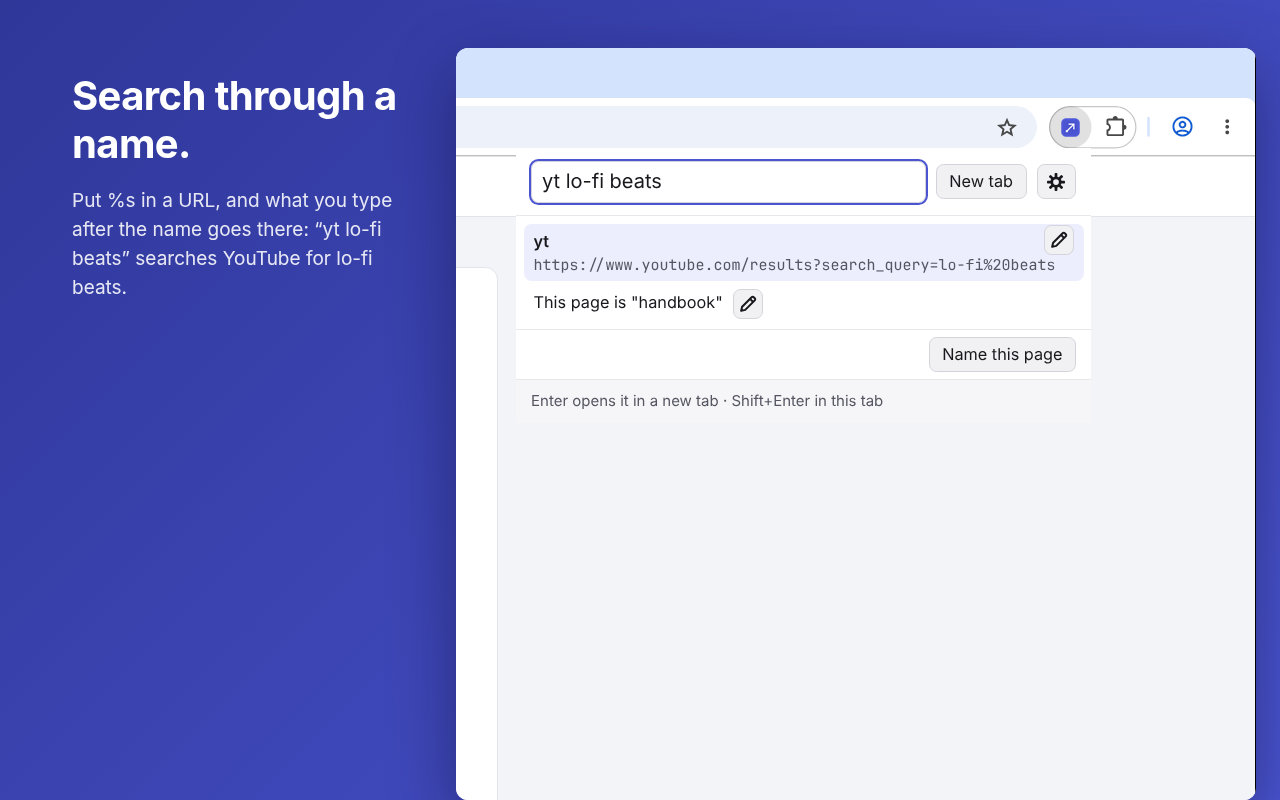
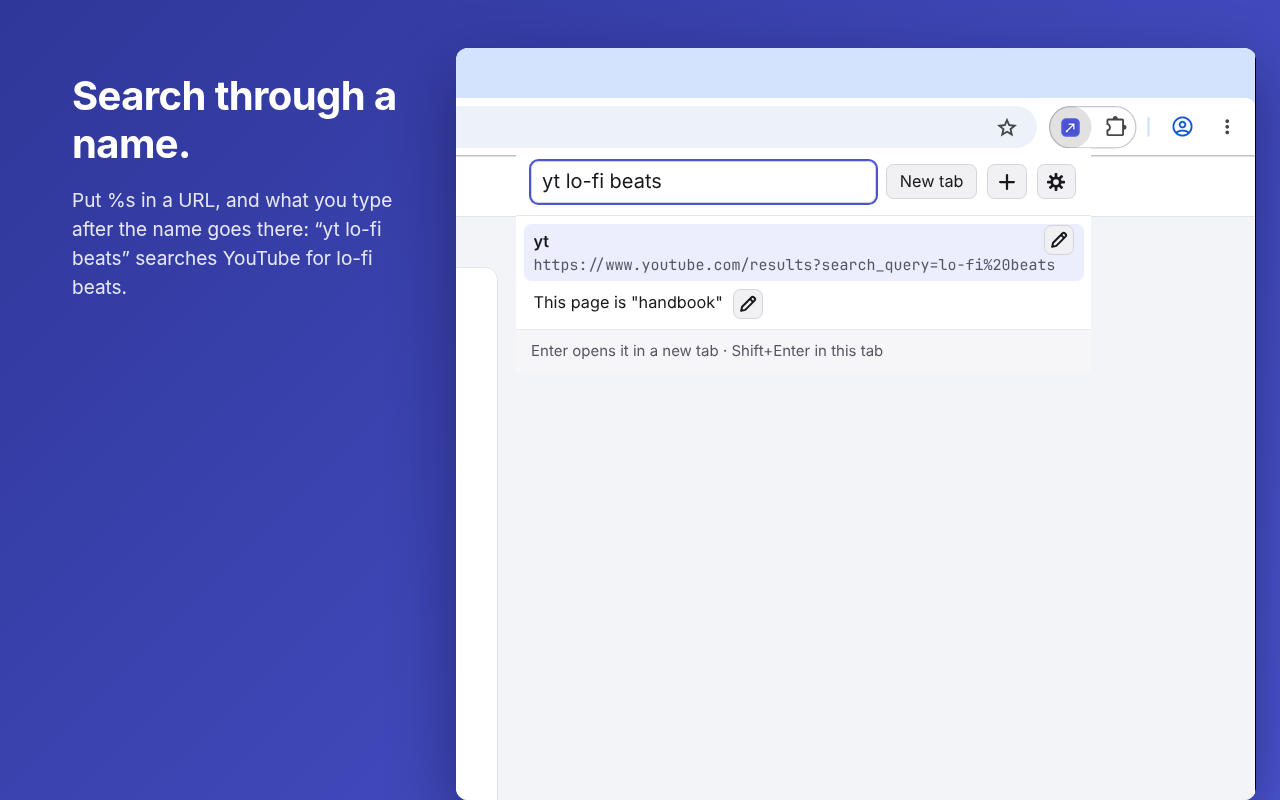
URLJumper 2.1.0
The version moves to 2.1.0 in the manifest, in both specifications' statements of it, and in
the end-to-end checks that pin the shipped version. The changelog's 2.1.0 entry lists every
change since 2.0.0. The store listing's images are redrawn from the built extension, and its
clipboard wording and the Name form's caption name the new copy buttons and Note field.

diff --git a/e2e/service-worker.spec.ts b/e2e/service-worker.spec.ts
@@ -2,11 +2,11 @@ import fs from 'node:fs';
 import path from 'node:path';
 import { distDir, expect, test } from './extension.ts';
 
-test("the built worker runs from the extension's origin as version 2.0.0", async ({ extension }) => {
+test("the built worker runs from the extension's origin as version 2.1.0", async ({ extension }) => {
   const manifest = JSON.parse(fs.readFileSync(path.join(distDir, 'manifest.json'), 'utf8'));
   expect(extension.worker.url()).toBe(extension.url(manifest.background.service_worker));
   const seen = await extension.worker.evaluate(() => [location.origin, chrome.runtime.id, chrome.runtime.getManifest().version]);
-  expect(seen).toEqual([`chrome-extension://${extension.id}`, extension.id, '2.0.0']);
+  expect(seen).toEqual([`chrome-extension://${extension.id}`, extension.id, '2.1.0']);
 });
 
 test("the worker has Chrome's command, menu, keyword, install, and startup events to listen to", async ({ extension }) => {

diff --git a/e2e/upgrade-from-1x.spec.ts b/e2e/upgrade-from-1x.spec.ts
@@ -74,7 +74,7 @@ test('a real update from 1.3.0 keeps the document byte for byte, the dark theme,
   await assignShortcut(release1x.context, release1x.id, 'open-new-tab', 'Alt+J');
 
   const extension = await release1x.update();
-  expect(await extension.worker.evaluate(() => chrome.management.getSelf())).toMatchObject({ name: 'URLJumper', version: '2.0.0', enabled: true });
+  expect(await extension.worker.evaluate(() => chrome.management.getSelf())).toMatchObject({ name: 'URLJumper', version: '2.1.0', enabled: true });
   // Nothing migrated: 1.3.0's keys as it left them, and the mark of the update.
   expect(await extension.readStorage()).toEqual({ ...before, upgradeNotice: 'pending' });
   expect((await assignedShortcuts(extension.worker))['open-new-tab']).toBe('Alt+J');

diff --git a/e2e/release-zip.spec.ts b/e2e/release-zip.spec.ts
@@ -73,7 +73,7 @@ test("the upload's manifest declares exactly URLJumper 2.0's keys and values", (
   );
   expect(manifest.manifest_version).toBe(3);
   expect(manifest.name).toBe('URLJumper');
-  expect(manifest.version).toBe('2.0.0');
+  expect(manifest.version).toBe('2.1.0');
   expect(manifest.minimum_chrome_version).toBe('127');
   expect([...manifest.permissions].sort()).toEqual(['activeTab', 'clipboardWrite', 'contextMenus', 'storage']);
   expect(manifest.permissions).toHaveLength(4);

diff --git a/manifest.config.ts b/manifest.config.ts
@@ -5,7 +5,7 @@ import { defineManifest } from '@crxjs/vite-plugin';
 export default defineManifest({
   manifest_version: 3,
   name: 'URLJumper',
-  version: '2.0.0',
+  version: '2.1.0',
   minimum_chrome_version: '127',
   description: 'Open web pages by names you keep in one text document. Type a name, press Enter, arrive.',
   // Drawn by scripts/icons.ts.

diff --git a/TECHNICAL_SPECIFICATION.md b/TECHNICAL_SPECIFICATION.md
@@ -43,7 +43,7 @@ Every write of `mappings` carries the recomputed `usage` in the same `set` call,
 
 **What's-new page** (`whats-new.html`): a static page in the package, opened in a tab from the notice (G25), with five items: an exact name now wins over an earlier line that starts with it; `%s` in a URL takes the text typed after the name; Name this page (its shortcut, suggested Alt+Shift+N; the right-click menu; the Name row); the keyword `j`; Smart order, off for upgraded users, in Preferences.
 
-**Chrome** (external). Provides the stored keys, the popup bubble, the keyword, menus, commands, tabs, clipboard, and downloads. The manifest declares: `name` "URLJumper", `version` "2.0.0", `minimum_chrome_version` "127"; `permissions` exactly `storage`, `activeTab`, `clipboardWrite`, `contextMenus` (the stray `commands` entry of 1.x, which Chrome ignores as unknown, is dropped); `commands` `open-new-tab` (Alt+N), `open-same-tab` (Alt+M), `name-this-page` (Alt+Shift+N), each with `default` and `mac` set to the same key, as 1.x did; `omnibox.keyword` "j"; the CSP above; no `incognito` key (spanning, the default, so one worker serves the profile). Menu items are created in `onInstalled`, and again in `runtime.onStartup` after removing the extension's items, so a Chrome closed before it stored them has them again at its next start: *Name this page in URLJumper* with context `page`, *Name this link in URLJumper* with context `link` (S13). Export is an anchor download of a Blob of the stored text (UTF-8, no byte-order mark added) named `URLJumperMappings.txt`; Import reads the chosen file with `File.text()` (S14). Copying uses `navigator.clipboard.writeText` from the focused page inside the user's click or key handler.
+**Chrome** (external). Provides the stored keys, the popup bubble, the keyword, menus, commands, tabs, clipboard, and downloads. The manifest declares: `name` "URLJumper", `version` "2.1.0", `minimum_chrome_version` "127"; `permissions` exactly `storage`, `activeTab`, `clipboardWrite`, `contextMenus` (the stray `commands` entry of 1.x, which Chrome ignores as unknown, is dropped); `commands` `open-new-tab` (Alt+N), `open-same-tab` (Alt+M), `name-this-page` (Alt+Shift+N), each with `default` and `mac` set to the same key, as 1.x did; `omnibox.keyword` "j"; the CSP above; no `incognito` key (spanning, the default, so one worker serves the profile). Menu items are created in `onInstalled`, and again in `runtime.onStartup` after removing the extension's items, so a Chrome closed before it stored them has them again at its next start: *Name this page in URLJumper* with context `page`, *Name this link in URLJumper* with context `link` (S13). Export is an anchor download of a Blob of the stored text (UTF-8, no byte-order mark added) named `URLJumperMappings.txt`; Import reads the chosen file with `File.text()` (S14). Copying uses `navigator.clipboard.writeText` from the focused page inside the user's click or key handler.
 
 ## State
 

diff --git a/CHANGELOG.md b/CHANGELOG.md
@@ -2,6 +2,25 @@
 
 Every release of URLJumper, newest first. The version is `version` in `manifest.config.ts`. From 2.0.0 on, each release is tagged `v<version>`; the 1.x releases are tagged `v<version>-release`, and their entries are drawn from those tags and the commit messages of the time.
 
+## 2.1.0 — 2026-10-22
+
+### Added
+
+- **Popup settings open on**: a choice in Preferences, below Theme, of the view the popup's settings open on: *Preferences*, *List*, or *Text*. It starts at Preferences and applies to the popup's settings only.
+- **Note** in the Name form, wherever it opens (Name this page, Name this link, the Name row, Add mapping): empty to start, saved as the new line's note.
+- A **copy button** at the right of the name, URL, and note fields of the Name form and of every row editor: it copies the field's value as it stands, typed or not, and stores and opens nothing.
+- **Copy tab URL** in more of the popup: in the row editor a search row opens, in the List view's row editor, and in the Add mapping form, copying the address of the tab the popup was opened on so it can be pasted over a URL.
+- **Import…** and **Export…** in the popup's settings as well as on the settings page.
+- Every icon button shows a short title on hover.
+
+### Changed
+
+- The popup's *Name this page* is a plus in the header, left of the gear, so it stays in one place however many rows are listed; the bar below the list is gone. In the popup's settings, *Open in tab* is an icon.
+- In the List view, *Add mapping* is a plus at the top right and opens its form at the top of the view; activated while the form is open, it returns to the form's name field. A row editor's *Move up* and *Move down* are arrows, on one line with *Cancel*.
+- *Import…* and *Export…* are icon buttons at the top right of the Text view, in both settings hosts, and are no longer in Preferences. Import opens the Text view afresh with the file as the unsaved text, asking first over unsaved text as before; while Chrome is not keeping the view's unsaved text, Import takes nothing and says so instead of replacing it.
+- A note typed in the Name form or a row editor may hold a backslash, as a note written in the Text view already could; a line break is still refused.
+- The List view's row editor no longer offers *Copy link*: the URL field's copy button copies what it showed. The row editor a search row opens keeps *Copy link*, which copies an argument row's filled URL.
+
 ## 2.0.0 — 2026-10-20
 
 Version 2.0 is a new implementation, built from `PRODUCT_SPECIFICATION.md` and `TECHNICAL_SPECIFICATION.md`; nothing of the 1.x code remains. An install of 1.x keeps its stored document byte for byte. From 1.1.0 on, 1.x stored the theme and named its commands as 2.0 does, so a user's theme and assigned shortcuts stay as well; 1.0.x used other names for both, and an update from one starts with the System theme and the suggested shortcuts.

diff --git a/web-store/listing.md b/web-store/listing.md
@@ -48,7 +48,7 @@ One mapping per line: a name, spaces, and a URL. A backslash starts a comment; a
 
 PRIVATE BY DESIGN
 
-Everything stays in your Chrome profile. URLJumper makes no network requests of its own and has no account, no sync, and no telemetry. It uses only these permissions: storage (your document and preferences), the active tab (the address and title of the page you are on, only when you open URLJumper on it), the clipboard (to copy a link), and the right-click menu.
+Everything stays in your Chrome profile. URLJumper makes no network requests of its own and has no account, no sync, and no telemetry. It uses only these permissions: storage (your document and preferences), the active tab (the address and title of the page you are on, only when you open URLJumper on it), the clipboard (to copy a link or a field's text), and the right-click menu.
 
 UPGRADING FROM 1.x
 
@@ -72,7 +72,7 @@ Developers: Brian Wei Hao Ma, Ryan B. Green
 Each is a real capture of the built extension in Chromium at a display scale of 1.25, set in a captioned frame.
 
 1. `screenshot-1-jump.png`: the popup over a page with `ma` typed, three matches, and the footer saying what Enter does.
-2. `screenshot-2-name-this-page.png`: the Name form for the page the popup was opened on, with its title, host, URL, the Section choice, and the preview of the line to be written.
+2. `screenshot-2-name-this-page.png`: the Name form for the page the popup was opened on, with its title, host, URL, an empty Note field, the Section choice, and the preview of the line to be written.
 3. `screenshot-3-search-through-a-name.png`: `yt lo-fi beats` typed, and the argument row showing the filled YouTube search URL.
 4. `screenshot-4-your-document.png`: the settings page's Text view, showing the document with comment headings, notes, and aligned columns.
 5. `screenshot-5-list-view-dark.png`: the settings page's List view in the dark theme, rows under their heading with line numbers and a note.
@@ -93,7 +93,7 @@ The store takes five screenshots at most. Upload 1, 2, 3, 4, and 6: each shows a
 
 - `storage`: holds the user's document, their learned usage for Smart order, their preferences, and an unsaved text draft, in the extension's local storage only.
 - `activeTab`: reads the address and title of the page in front when the user opens the popup on it, names it, or copies its address; nothing is read without the user's own action.
-- `clipboardWrite`: *Copy link* and *Copy tab URL* put a URL on the clipboard.
+- `clipboardWrite`: *Copy link* and *Copy tab URL* put a URL on the clipboard, and the copy button at the right of each field of the Name form and the row editors puts that field's text there.
 - `contextMenus`: the two right-click items, *Name this page in URLJumper* and *Name this link in URLJumper*.
 - No host permissions. The keyboard commands and the address-bar keyword `j` are manifest declarations, not permissions.
 

diff --git a/PRODUCT_SPECIFICATION.md b/PRODUCT_SPECIFICATION.md
@@ -83,7 +83,7 @@ Behavior outside these assumptions is not promised.
 ## Fixed decisions
 
 - **F1.** The product is named URLJumper, in the manifest, the Web Store listing, every menu item, and every string.
-- **F2.** It is a Chrome Manifest V3 extension, version 2.0.0, published as an update of the existing Web Store item so that 1.x users receive it.
+- **F2.** It is a Chrome Manifest V3 extension, version 2.1.0, published as an update of the existing Web Store item so that 1.x users receive it.
 - **F3.** The document is stored exactly as 1.x stores it: the whole text as one string under the key `mappings` in the extension's local storage (`chrome.storage.local`). The theme preference stays under the key `themePref` with the values `light` and `dark`; its absence means System. Every other stored thing (learned usage, the search-order preference, text drafts, the upgrade notice's state) lives under other keys of the same local storage, never in the document and never in sync storage.
 - **F4.** The grammar of the document is that of 1.x, with one addition. Lines are separated by LF or CRLF. A backslash (`\`) starts a comment that runs to the end of the line wherever it appears. A line that is empty or only whitespace after its comment is removed is blank. Any other line is a mapping line: after leading and trailing whitespace is removed, its URL is the last run of non-whitespace characters, the whitespace before the URL separates, and everything before that whitespace is the name, which may contain whitespace within it. The URL begins with a scheme: an ASCII letter, then any ASCII letters, ASCII digits, `+`, `.`, or `-`, then `:`; letters are matched regardless of case. Names are compared regardless of case; a name that repeats the name of an earlier mapping line is an error. A line that is neither blank nor a mapping line as just defined is an error. The addition: `%s` inside a URL marks where an argument goes; a mapping whose URL contains `%s` is an **argument alias**.
 - **F5.** The keyboard commands are `open-new-tab` (suggested Alt+N; the popup opens in New tab mode), `open-same-tab` (suggested Alt+M; This tab mode), both with the identifiers and suggested keys they had in 1.x so that Chrome keeps shortcuts users assigned to them, and `name-this-page` (suggested Alt+Shift+N; the popup opens on the Name form). All three are changeable only in Chrome's shortcuts page.
